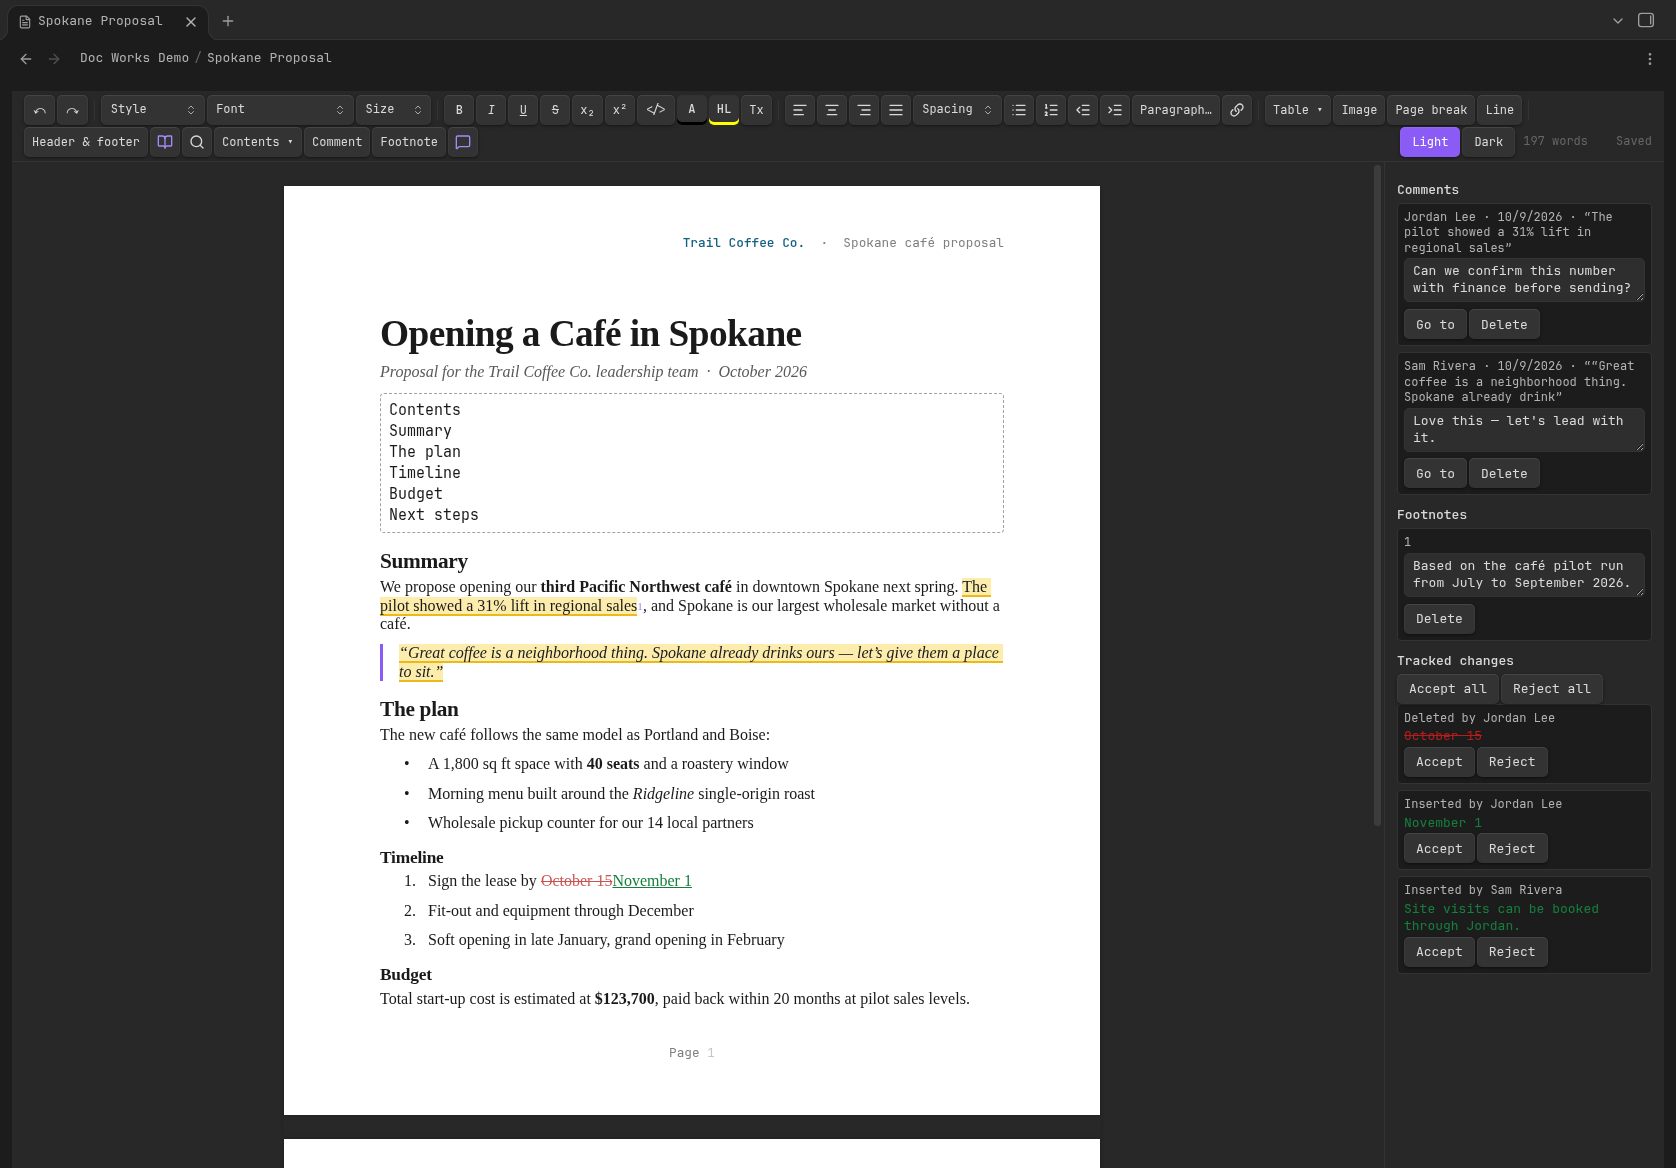
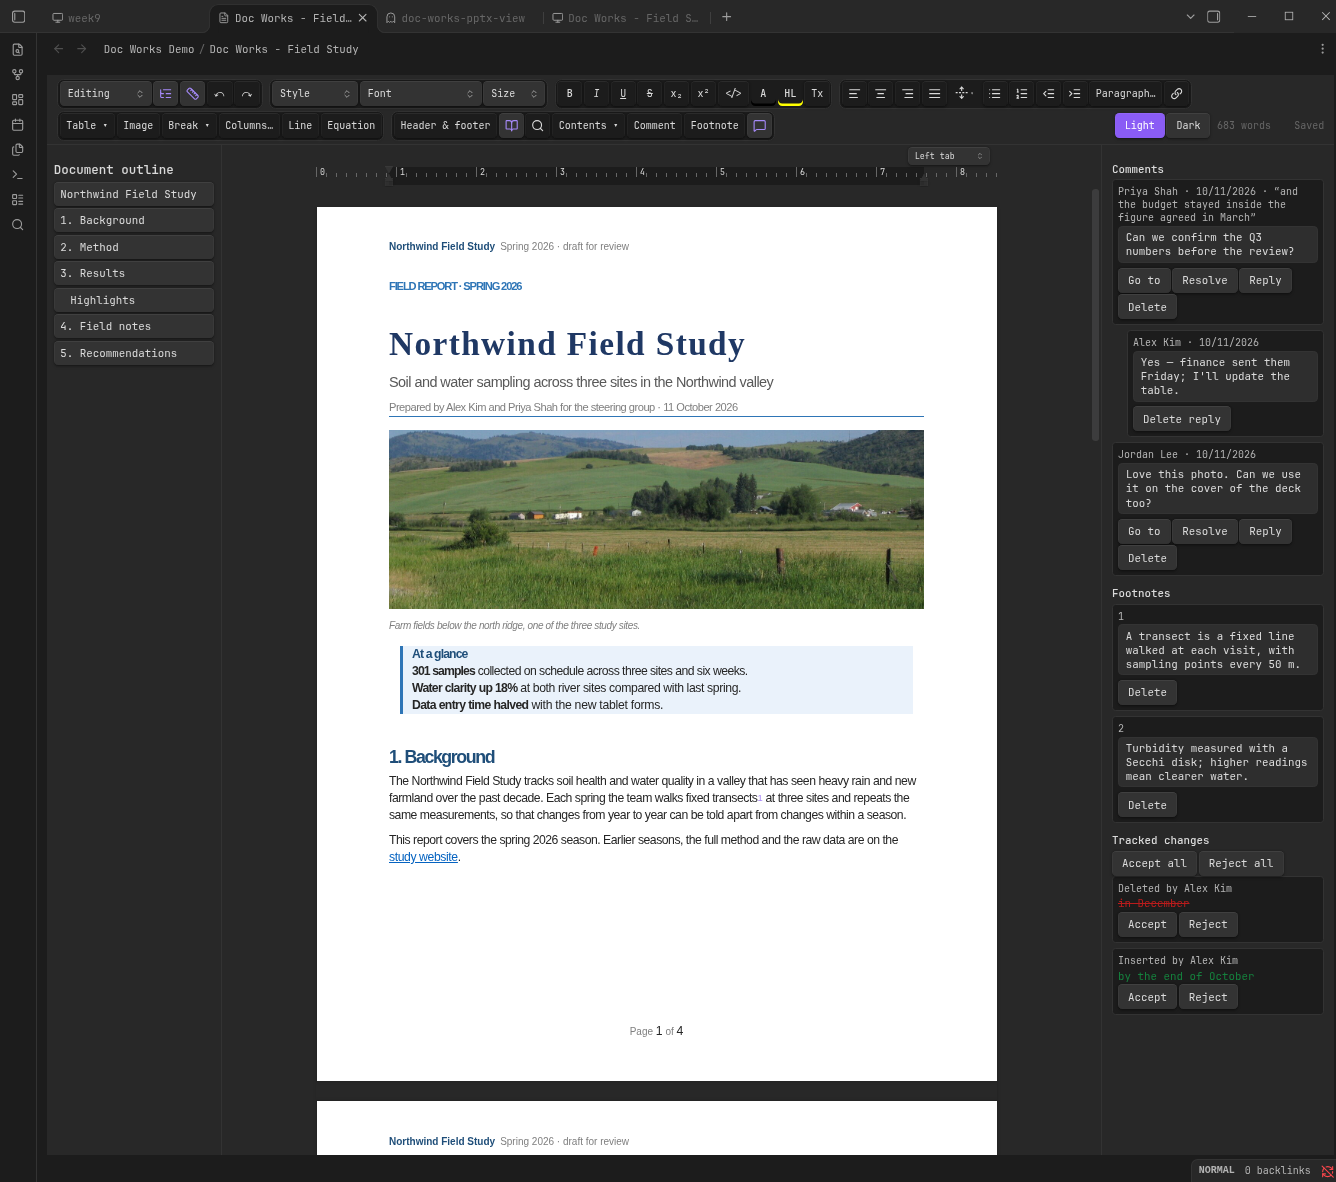
0.9.2: slide copy/paste, clearer slide selection, README screenshots

Changed region(s): [[0.0, 0.0, 0.982, 1.0], [0.89, 0.9863, 1.0, 1.0], [0.982, 0.0, 1.0, 0.0308]]

diff --git a/styles.css b/styles.css
@@ -553,6 +553,17 @@ img.docx-behind,
 
 .pptx-thumb.is-active .pptx-thumb-slide {
   border-color: var(--interactive-accent);
+  box-shadow: 0 0 0 2px var(--interactive-accent);
+}
+
+.pptx-thumb.is-active {
+  background: var(--background-modifier-active-hover);
+  border-radius: var(--radius-s);
+}
+
+.pptx-thumb.is-active .pptx-thumb-num {
+  color: var(--interactive-accent);
+  font-weight: var(--font-bold);
 }
 
 .pptx-thumb:hover:not(.is-active) .pptx-thumb-slide {

diff --git a/README.md b/README.md
@@ -7,7 +7,7 @@
[1 lines of base64/hex data omitted]
 [![License: GPL-3.0](https://img.shields.io/badge/license-GPL--3.0-blue?style=for-the-badge)](LICENSE)
 
-![Editing a PowerPoint slide in Obsidian](docs/pptx.png)
+![Editing a slide deck with the slide panel and thumbnails](docs/pptx.png)
 
 - **Looks like PowerPoint, Word and Excel.** Themes, layouts, shapes, SmartArt, tables, document styles and cell formats render faithfully, even without Office fonts.
 - **Doesn't break your files.** Only what you edit is rewritten; everything else is saved back byte-for-byte.
@@ -16,6 +16,8 @@
 If it saves you a trip to Office, please ⭐ the repo.
 
 ![Editing a Word document with comments, footnotes and tracked changes](docs/docx.png)
+
+![Editing a spreadsheet with conditional formatting, dropdowns and a chart](docs/xlsx.png)
 
 ## Features
 
